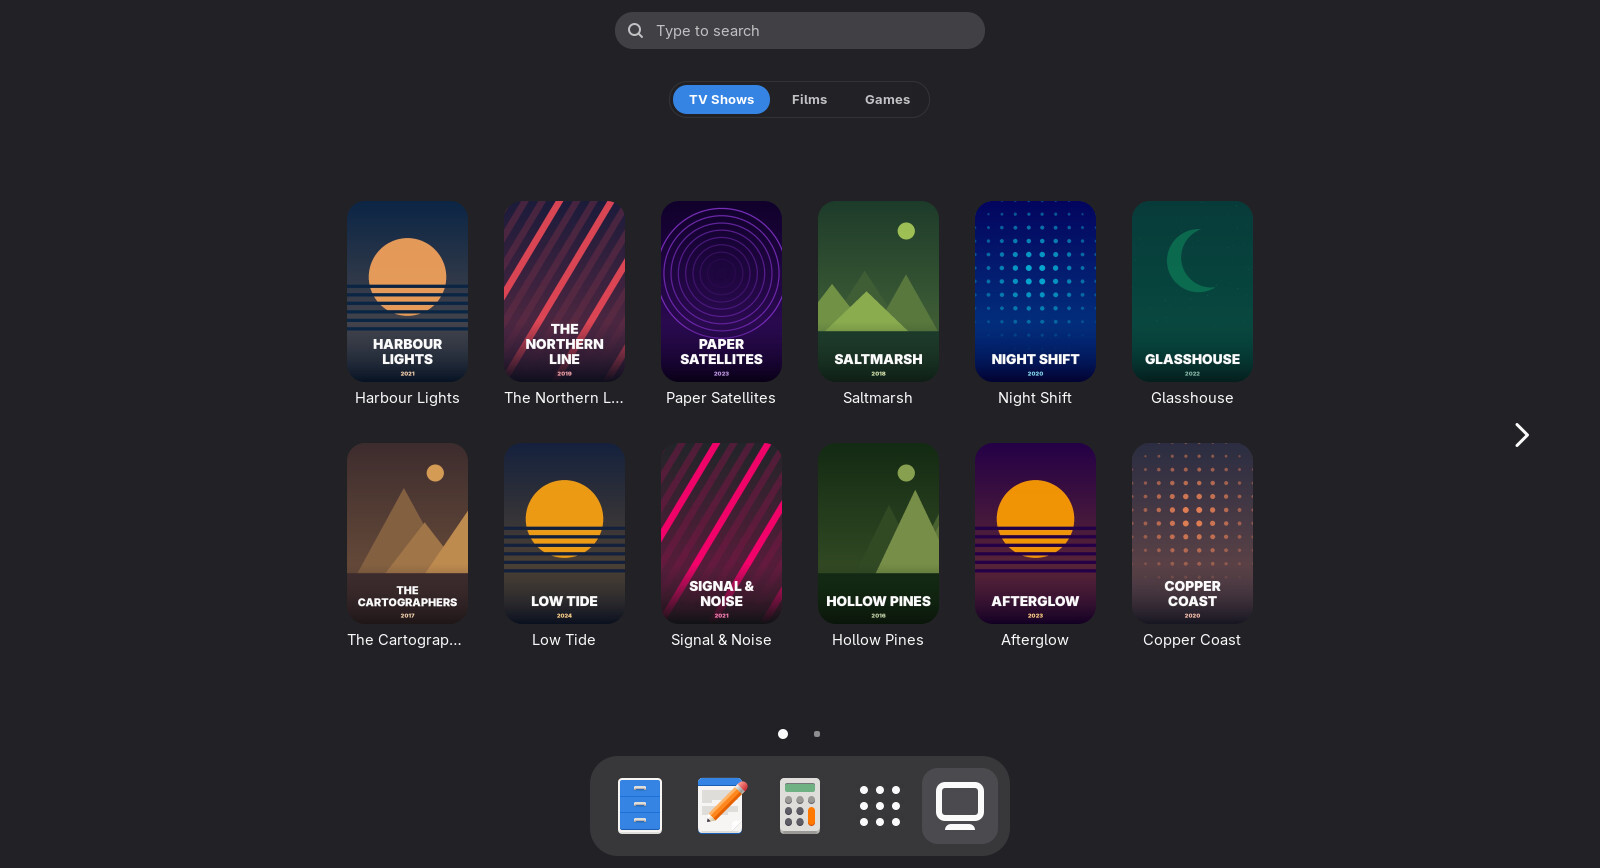
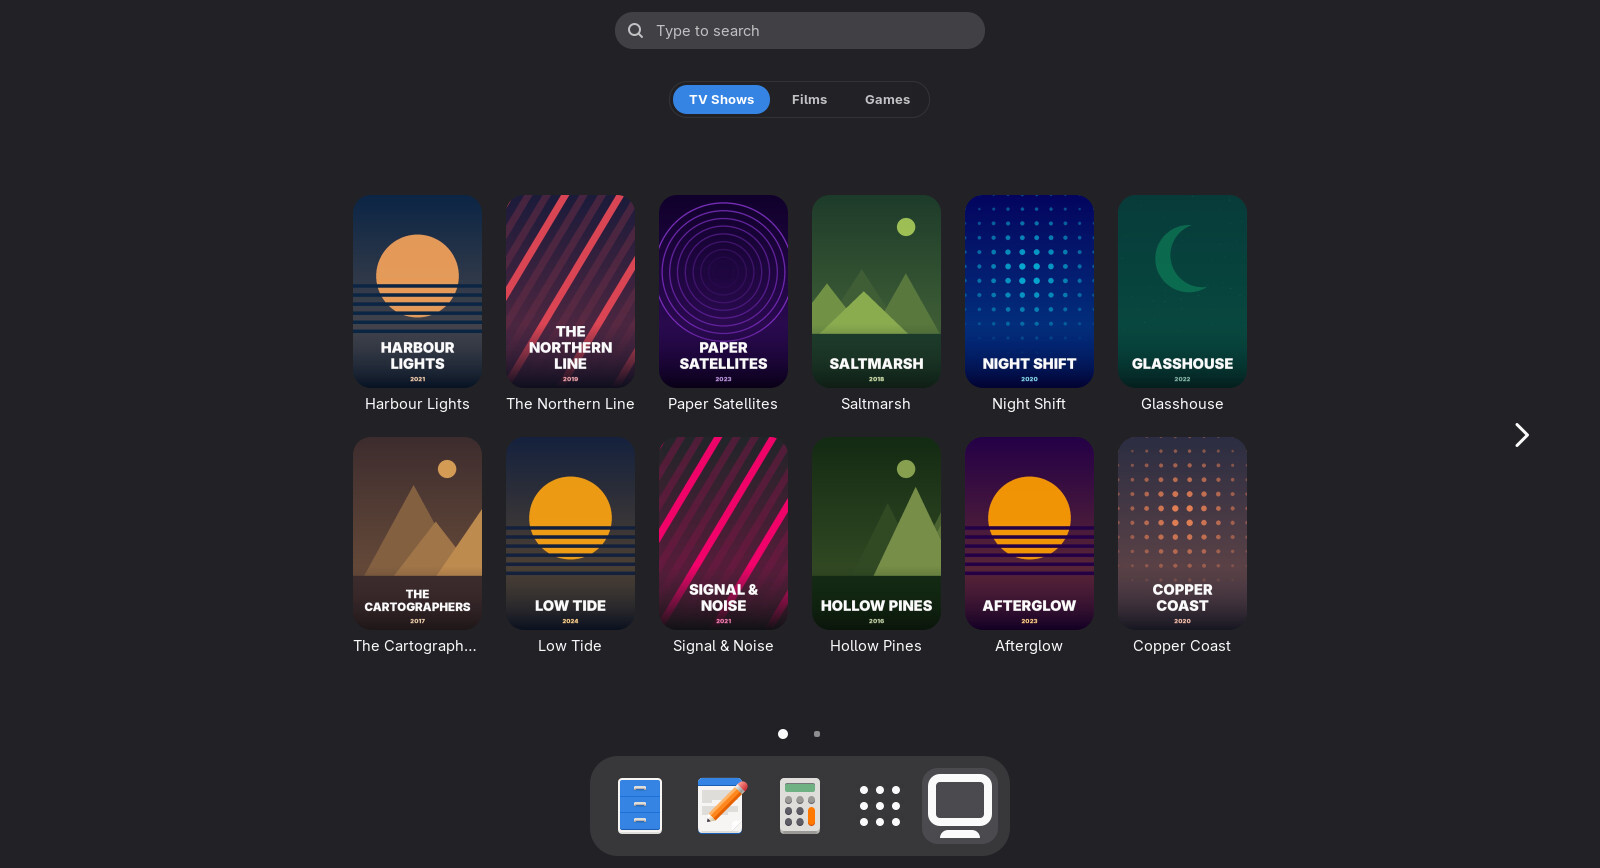
The pop-up's summary takes only the lines it needs, and the text size reaches the title, facts and tabs by half
The summary kept five lines of room for one line of text, a hole above the
season tabs on every screen and four rows of episodes on a small one; it is as
tall as its text, to five lines. detail-text-size scales the title, tagline,
facts, season tabs and group heading by half its change, set on a box around
each so their own em sizes follow. The README's overview screenshots are
retaken with the squares, the tile padding and the dash glyph.

Fixes #139

diff --git a/src/lib/detailView.js b/src/lib/detailView.js
@@ -21,7 +21,7 @@ const PADDING = 32 - PANE_INSET;
 const HERO_MAX_WIDTH_FRACTION = 0.34;
 const HERO_MIN = 132;
 // The summary's type, scaled by `detail-text-size`, and one line of it at 100 %;
-// St has no line-height to set.
+// St has no line-height to set. The title, facts and tabs follow the size by half.
 const SUMMARY_EM = 0.95;
 const SUMMARY_LINE = 21;
 const SUMMARY_LINES = 5;
@@ -275,14 +275,21 @@ export class DetailView {
         });
     }
 
+    // Set on a box around each, so the labels' own em sizes scale from it.
+    get _headingStyle() {
+        return `font-size: ${((1 + this._textSize) / 2).toFixed(2)}em;`;
+    }
+
     _buildMain(item) {
         const main = new St.BoxLayout({orientation: Clutter.Orientation.VERTICAL, x_expand: true, y_expand: true, style_class: 'ml-detail-main'});
 
-        main.add_child(createLabel(item.title, 'ml-detail-title'));
+        const heading = new St.BoxLayout({orientation: Clutter.Orientation.VERTICAL, style_class: 'ml-detail-heading', style: this._headingStyle});
+        heading.add_child(createLabel(item.title, 'ml-detail-title'));
         if (item.tagline)
-            main.add_child(createLabel(item.tagline, 'ml-tagline'));
+            heading.add_child(createLabel(item.tagline, 'ml-tagline'));
+        main.add_child(heading);
 
-        const facts = new St.BoxLayout({style_class: 'ml-facts', y_align: Clutter.ActorAlign.CENTER});
+        const facts = new St.BoxLayout({style_class: 'ml-facts', y_align: Clutter.ActorAlign.CENTER, style: this._headingStyle});
         if (item.subtitle)
             facts.add_child(createPill(item.subtitle, 'ml-fact ml-fact-strong'));
         if (item.year)
@@ -303,20 +310,20 @@ export class DetailView {
                 text: item.summary,
                 style_class: 'ml-summary',
                 x_expand: true,
-                style: `font-size: ${(SUMMARY_EM * this._textSize).toFixed(2)}em;`,
+                // As tall as its text, to SUMMARY_LINES; the list takes the rest.
+                style: `font-size: ${(SUMMARY_EM * this._textSize).toFixed(2)}em; ` +
+                    `max-height: ${Math.round(SUMMARY_LINE * SUMMARY_LINES * this._textSize)}px;`,
             });
             summary.clutter_text.line_wrap = true;
             summary.clutter_text.line_wrap_mode = Pango.WrapMode.WORD_CHAR;
             summary.clutter_text.ellipsize = Pango.EllipsizeMode.END;
-            summary.height = Math.round(SUMMARY_LINE * this._scale * SUMMARY_LINES * this._textSize);
-            summary.y_expand = false;
             main.add_child(summary);
         }
 
         if (this._groups.length > 1 || this._groups[0]?.season)
             main.add_child(this._buildTabs());
         else if (this._groups.length === 1)
-            main.add_child(new St.Label({text: this._groups[0].name, style_class: 'ml-group-heading'}));
+            main.add_child(new St.Bin({style: this._headingStyle, x_align: Clutter.ActorAlign.START, child: new St.Label({text: this._groups[0].name, style_class: 'ml-group-heading'})}));
 
         this._listHost = new St.Widget({
             layout_manager: new Clutter.BinLayout(),
@@ -329,7 +336,7 @@ export class DetailView {
     }
 
     _buildTabs() {
-        const tabs = new St.BoxLayout({style_class: 'ml-tabs', x_expand: true});
+        const tabs = new St.BoxLayout({style_class: 'ml-tabs', x_expand: true, style: this._headingStyle});
         this._groups.forEach((group, i) => {
             const tab = new St.Button({
                 style_class: 'button ml-tab',

diff --git a/src/prefs.js b/src/prefs.js
@@ -418,7 +418,7 @@ export default class LibraryPreferences extends ExtensionPreferences {
         page.add(list);
         list.add(row('Row size', 'The height of each episode, film or disc row, in pixels. Its icons scale with it.',
             slider(settings, 'detail-row-size', 28, 56)));
-        list.add(row('Text size', 'The rows and the description, as a percentage.',
+        list.add(row('Text size', 'The rows and the description, as a percentage; the title, facts and season tabs follow by half as much.',
             slider(settings, 'detail-text-size', 70, 150)));
         return page;
     }

diff --git a/src/stylesheet.css b/src/stylesheet.css
@@ -155,7 +155,8 @@
     margin-bottom: 8px;
 }
 
-.ml-detail-main {
+.ml-detail-main,
+.ml-detail-heading {
     spacing: 14px;
 }
 

diff --git a/README.md b/README.md
@@ -40,7 +40,7 @@ picks up what you installed since.
 - Steam and PCSX2 are found in their usual places, the Flatpak installs included; the
   Games page takes a different folder for either.
 
-![A Steam game picked in the overview: its poster, Play and Show in Files on the left; Steam, the year, its rating, hours played, genres, its description and its install folder on the right](docs/screenshots/games.jpg)
+![A Steam game picked in the overview: its poster with the Play and Show in Files squares beneath; Steam, the year, its rating, hours played, genres, its description and its install folder on the right](docs/screenshots/games.jpg)
 
 ## Where it opens
 
@@ -55,7 +55,7 @@ they cover the wallpaper.
 
 <table>
   <tr>
-    <td width="50%"><img src="docs/screenshots/detail.jpg" alt="A show picked in the overview: its details pop up the way an app folder opens, poster and Play button on the left, facts, synopsis and a season's episodes on the right"></td>
+    <td width="50%"><img src="docs/screenshots/detail.jpg" alt="A show picked in the overview: its details pop up the way an app folder opens, poster with the Play and Show in Files squares beneath on the left, facts, synopsis and a season's episodes on the right"></td>
     <td width="50%"><img src="docs/screenshots/dash.jpg" alt="Three buttons centred on the desktop wallpaper, TV Shows, Films and Games, each with its icon"></td>
   </tr>
   <tr>

diff --git a/CLAUDE.md b/CLAUDE.md
@@ -125,7 +125,8 @@ controllers are the keyboard too: `.claude/rules/keyboard.md`.
   `corner-radius`, the pop-up's (`detail-width` and `detail-height`, 60–120 %, its
   share of the work area, applied in `detailDialog.js` `_budget()`,
   `detail-row-size`, the list's row height, which `widgets.js` `createRow` scales
-  its icons from, and `detail-text-size`, the rows' and the description's type). No
+  its icons from, and `detail-text-size`, the rows' and the description's type, which
+  the title, facts and tabs follow by half). No
   view keeps a copy, and a change rebuilds what is built.
   `.claude/rules/layout.md` has how the grid and the pane size themselves.
 - **The neutrals are the dark palette's** (`#222226`, `#fafafb`) on purpose: the
